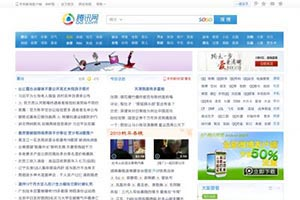
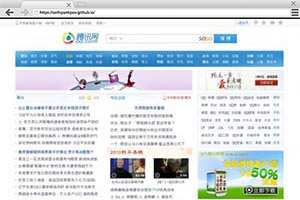
036 commit

diff --git a/css/slider_style.css b/css/slider_style.css
@@ -1,7 +1,7 @@
-#slider_wrapp{
+#slider_wrapp {
     text-align: center;
-    box-sizing: border-box;
     margin: 0 auto;
+      
 }
 
 .slider{
@@ -9,16 +9,20 @@
 	width: 90%;
 	position: relative;
 	display: inline-block;
+    margin-top: 2%;
+/*
+    box-shadow: inset 0px 1px 4px 1px #000000c4;
+    border-radius: 5px;
+*/
 }
 
 .sliderPage{
-	width: 100px;
-	height: 60px;
-	display: inline-block;
-	position: absolute;
-	vertical-align: middle;
-	border-radius: 3px;
-    
+    position: absolute;
+    border-radius: 5px;
+    border: 1px solid #424242;
+    box-shadow: 0 8px 12px 6px #11131891;
+    transition: all ease 0.5s;
+    border: 1px solid #595d65;
 }
 
 .sliderPage a{
@@ -38,7 +42,7 @@
 [position = '1']{
 	height: 50%;
     width: 25%;
-    left: 17%;
+    left: 18.5%;
     top: 10%;
     z-index: 4;
 }
@@ -46,16 +50,16 @@
 [position = '2']{
 	height: 40%;
     width: 20%;
-    left: 0;
-    top: 15%;
+    left: 2%;
+    top: 17%;
     z-index: 6;
 }
 
 [position = '3']{
 	height: 50%;
     width: 25%;
-    left: 13%;
-    top: 19%;
+    left: 16%;
+    top: 23%;
     z-index: 8;
 }
 
@@ -63,40 +67,32 @@
 	height: 60%;
     width: 30%;
     left: 35%;
-    top: 30%;
+    top: 32%;
     z-index: 10;
 }
 
 [position = '5']{
 	height: 50%;
     width: 25%;
-    right: 13%;
-    top: 19%;
+    right: 16%;
+    top: 23%;
     z-index: 8;
 }
 
 [position = '6']{
 	height: 40%;
     width: 20%;
-    right: 0;
-    top: 15%;
+    right: 2%;
+    top: 17%;
     z-index: 6;
 }
 
 [position = '7']{
 	height: 50%;
     width: 25%;
-    right: 17%;
+    right: 18.5%;
     top: 10%;
     z-index: 2;
-}
-
-.sliderPage{
-	border: 1px solid #808080;
-    box-sizing: border-box;
-	box-shadow: 0 3px 5px 4px;
-	color: #00000080;
-	transition: all ease 0.5s;
 }
 
 #sl00{

diff --git a/css/style.css b/css/style.css
@@ -9,10 +9,8 @@ body{
 #wrapper{
 	max-width: 960px;
     min-width: 320px;
-    box-sizing: border-box;
-	margin: 0 auto;
+   	margin: 0 auto;
 	overflow: hidden;
-	border: 1px solid #aaaaaa;
 	position: relative;
     color: #e6e6e6;
     font: 16px bold Calibri, sans-serif;
@@ -99,20 +97,22 @@ body{
     vertical-align: top;
 }
 
-#slider_wrapp{
-    margin-top: 20px;
-}
-
-
 #portfolio{
 	text-align: center;
+    box-shadow: inset 0px 1px 4px 1px #000000c4;
+    border-radius: 5px;
+    margin: 0 10px 10px;
 }
 
 #portfolio a{
 	margin: 2%;
+    padding: 1%;
     display: inline-block;
-	width: 45%;
+    width: 45%;
     box-sizing: border-box;
+    border-radius: 3px;
+    box-shadow: 0px 1px 4px 1px #000000c4;
+    overflow: hidden;
 }
 
 #portfolio img{
@@ -142,7 +142,7 @@ body{
     display: table-cell;
     width: 115px;
     background: linear-gradient( 0deg, #8d929b 0%, #cfd1d6 50%, #8d929b 100%);
-    padding: 10px 0 ;
+    padding: 10px;
     box-sizing: border-box;
 }
 
@@ -153,12 +153,12 @@ body{
 
 #social a{
 	display: inline-block;
-    width: 40px;
-    height: 40px;
+    width: 35px;
+    height: 35px;
     border-radius: 3px;
     background: linear-gradient( 0deg, #1e1e20, #808792);
     border-top: 1px solid #b1b3c0;
-    margin: 3px;
+    margin: 2px;
     box-shadow: 0px 0px 1px 2px #0000007d;
 }
 

diff --git a/css/link_style.css b/css/link_style.css
@@ -14,7 +14,7 @@
 
 #sidebar ul:hover li{
     background: linear-gradient( 0deg, #8d929b 0%, #cfd1d6 50%, #8d929b 100%);
-    box-shadow: inset 0px 0px 2px 2px #000000;
+   box-shadow: inset 0px 1px 2px 1px #000000c4;
     width: 177px;
     transition: 0.2s;
 }
@@ -78,7 +78,11 @@
     #sidebar_ul li:hover{
         height: 100px;
     }
-    
+        
+    #sidebar ul:hover li {
+      box-shadow: inset 0px 0px 1px 1px #000000c4;
+    }
+      
     #link_html{
         background: url(../img/link_html_02.png) no-repeat;
     }
